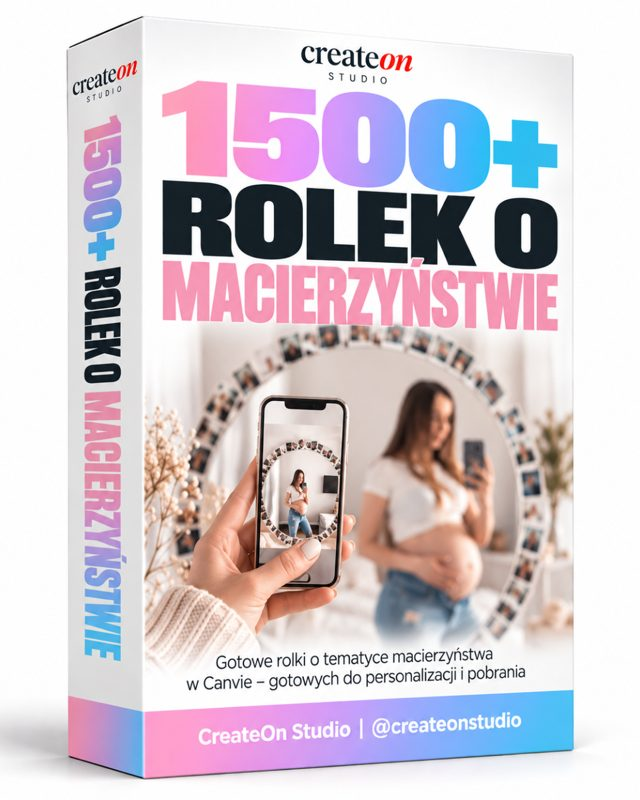
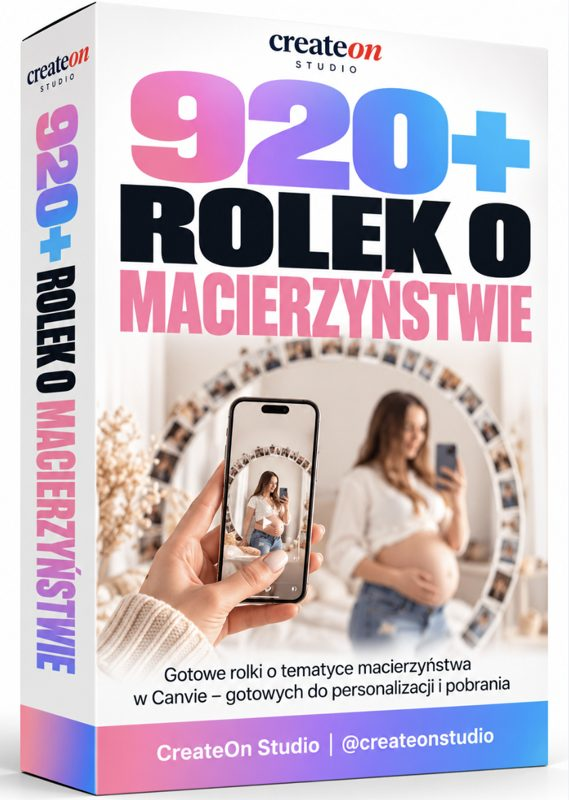
Add files via upload

diff --git a/index.html b/index.html
@@ -1,6 +1,10 @@
-<!doctype html><html><head><meta charset=utf8><meta name=viewport content="width=device-width,initial-scale=1,viewport-fit=cover"><style>:root{color-scheme:light;box-sizing:border-box;padding-top:env(safe-area-inset-top,0px);padding-bottom:env(safe-area-inset-bottom,0px)}html{scroll-padding-top:env(safe-area-inset-top,0px)}body{margin:0;padding:0;font:14px -apple-system,BlinkMacSystemFont,sans-serif;background:#fff;color:#000}img{max-width:100%}[hidden]:not([hidden=until-found i]){display:none!important}</style></head><body>
+<!doctype html>
+<html lang="pl">
+<head>
+<meta charset="utf-8">
+<meta name="viewport" content="width=device-width,initial-scale=1,viewport-fit=cover">
+<meta name="theme-color" content="#000002">
 <title>Katalog CreateOn Studio</title>
-<meta name="claude:viewport-fit-sides" content="cover">
 <link rel="preconnect" href="https://fonts.googleapis.com">
 <link rel="preconnect" href="https://fonts.gstatic.com" crossorigin>
 <link rel="stylesheet" href="https://fonts.googleapis.com/css2?family=Hanken+Grotesk:wght@300..700&family=Fraunces:ital,opsz,wght@1,9..144,400..600&display=swap">
@@ -24,6 +28,8 @@
   --script: "Fraunces", Georgia, serif;
 }
 * { box-sizing: border-box; }
+img { max-width: 100%; }
+body { margin: 0; }
 html { background: var(--night); }
 body {
   background: var(--night); color: var(--ink);
@@ -68,7 +74,7 @@ a:focus-visible { outline: 2px solid var(--amber); outline-offset: 3px; border-r
 /* Shelf */
 .shelf-card { padding: 24px; display: grid; gap: 16px; margin-top: 30vh; }
 .shelf-head { display: flex; justify-content: space-between; gap: 12px; }
-.shelf { list-style: none; margin: 0; padding: 0; display: grid; grid-template-columns: repeat(7, minmax(0, 1fr)); gap: 12px; }
+.shelf { list-style: none; margin: 0; padding: 0; display: grid; grid-template-columns: repeat(8, minmax(0, 1fr)); gap: 12px; }
 @media (max-width: 900px) { .shelf { grid-template-columns: repeat(4, minmax(0, 1fr)); } }
 @media (max-width: 520px) { .shelf { grid-template-columns: repeat(3, minmax(0, 1fr)); gap: 8px; } .shelf-card { padding: 16px; } }
 .shelf a { display: grid; gap: 8px; text-decoration: none; }
@@ -107,6 +113,9 @@ footer .label a { color: var(--amber); text-decoration: none; }
 @media (max-width: 600px) { .hint { display: none; } .wrap { padding-top: 96px; } .hero { margin-top: 6vh; } }
 @media (prefers-reduced-motion: reduce) { .shelf img { transition: none; } .shelf a:hover img { transform: none; } }
 </style>
+</head>
+<body>
+
 
 <canvas id="field" aria-hidden="true"></canvas>
 <div class="veil"></div>
@@ -116,7 +125,7 @@ footer .label a { color: var(--amber); text-decoration: none; }
   <div><b>CreateOn</b><span>Studio / Katalog</span></div>
 </a>
 <div class="mark hint">Przewiń, aby odkryć produkty</div>
-<div class="mark count" id="count">00 / 14</div>
+<div class="mark count" id="count">00 / 16</div>
 <div class="progress" aria-hidden="true"><i id="bar"></i></div>
 
 <div class="wrap" id="top">
@@ -128,22 +137,24 @@ footer .label a { color: var(--amber); text-decoration: none; }
   </header>
 
   <section class="shelf-card glass" aria-label="Wszystkie produkty">
-    <div class="shelf-head label"><span>Wszystkie produkty</span><span>14</span></div>
+    <div class="shelf-head label"><span>Wszystkie produkty</span><span>16</span></div>
     <ol class="shelf">
     <li><a href="#mockupy"><img src="c/mockupy.jpg" alt="" loading="lazy"><span>1000 szablonów Mockup</span></a></li>
     <li><a href="#hooki"><img src="c/hooki.jpg" alt="" loading="lazy"><span>450+ hooków</span></a></li>
     <li><a href="#naklejki"><img src="c/naklejki.jpg" alt="" loading="lazy"><span>500+ naklejek</span></a></li>
     <li><a href="#identyfikacja"><img src="c/identyfikacja.jpg" alt="" loading="lazy"><span>Brand board</span></a></li>
     <li><a href="#cta"><img src="c/cta.jpg" alt="" loading="lazy"><span>101 CTA</span></a></li>
-    <li><a href="#macierzynstwo"><img src="c/macierzynstwo.jpg" alt="" loading="lazy"><span>1500+ rolek o macierzyństwie</span></a></li>
+    <li><a href="#macierzynstwo"><img src="c/macierzynstwo.jpg" alt="" loading="lazy"><span>920+ rolek o macierzyństwie</span></a></li>
     <li><a href="#wellness"><img src="c/wellness.jpg" alt="" loading="lazy"><span>850+ rolek wellness</span></a></li>
     <li><a href="#pomysly"><img src="c/pomysly.jpg" alt="" loading="lazy"><span>500 pomysłów na produkt</span></a></li>
     <li><a href="#prompty"><img src="c/prompty.jpg" alt="" loading="lazy"><span>10 000+ promptów</span></a></li>
     <li><a href="#planer"><img src="c/planer.jpg" alt="" loading="lazy"><span>Content planer</span></a></li>
     <li><a href="#newslettery"><img src="c/newslettery.jpg" alt="" loading="lazy"><span>30 newsletterów</span></a></li>
     <li><a href="#shortcody"><img src="c/shortcody.jpg" alt="" loading="lazy"><span>350 shortcodów</span></a></li>
-    <li><a href="#rolki-claude"><img src="c/rolki-claude.jpg" alt="" loading="lazy"><span>Reelsy w Claude</span></a></li>
+    <li><a href="#rolki-claude"><img src="c/rolki-claude.jpg" alt="" loading="lazy"><span>Montuj rolki z Claude</span></a></li>
     <li><a href="#manychat"><img src="c/manychat.jpg" alt="" loading="lazy"><span>30 automatyzacji ManyChat</span></a></li>
+    <li><a href="#bez-twarzy"><img src="c/bez-twarzy.jpg" alt="" loading="lazy"><span>10 000+ rolek bez twarzy</span></a></li>
+    <li><a href="#podroze"><img src="c/podroze.jpg" alt="" loading="lazy"><span>900+ rolek podróżniczych</span></a></li>
   </ol>
   </section>
 
@@ -240,12 +251,12 @@ footer .label a { color: var(--amber); text-decoration: none; }
   </article>
 
 <article class="product" data-n="06" id="macierzynstwo">
-    <div class="cover"><img src="c/macierzynstwo.jpg" alt="Okładka: 1500+ rolek o macierzyństwie" loading="lazy"><div class="avail">Dostępne w <b>CreateOn Studio</b></div></div>
+    <div class="cover"><img src="c/macierzynstwo.jpg" alt="Okładka: 920+ rolek o macierzyństwie" loading="lazy"><div class="avail">Dostępne w <b>CreateOn Studio</b></div></div>
     <div class="copy">
       <div class="label">06 / ROLKI</div>
-      <h2>1500+ rolek o macierzyństwie</h2>
+      <h2>920+ rolek o macierzyństwie</h2>
       <p class="lead">Twórz atrakcyjne rolki o macierzyństwie bez konieczności projektowania każdego filmu od podstaw.</p>
-      <p>Dzięki gotowym szablonom szybko przygotujesz treści do mediów społecznościowych, podzielisz się doświadczeniami związanymi z rodzicielstwem, pokażesz codzienne życie rodzinne lub wypromujesz swoją markę. To praktyczne rozwiązanie dla zapracowanych mam, przedsiębiorców i influencerów, którzy chcą regularnie publikować estetyczne, dopracowane materiały.</p>
+      <p>Dzięki gotowym szablonom szybko przygotujesz treści do mediów społecznościowych, podzielisz się doświadczeniami związanymi z rodzicielstwem, pokażesz codzienne życie rodzinne lub wypromujesz swoją markę. Pakiet zawiera ponad 920 szablonów filmów o mamach i macierzyństwie. To praktyczne rozwiązanie dla zapracowanych mam, przedsiębiorców i influencerów, którzy chcą regularnie publikować estetyczne, dopracowane materiały.</p>
       <h3>Co otrzymujesz?</h3>
       <ul>
         <li>Ponad 90 filmów o macierzyństwie z gotowymi hookami, które możesz edytować w Canvie</li>
@@ -271,7 +282,6 @@ footer .label a { color: var(--amber); text-decoration: none; }
       <p>Ten zestaw łączy ponad 850 materiałów, które możesz wykorzystać w komunikacji swojej marki wellness. Znajdziesz tu zarówno krótkie, bezosobowe rolki, jak i filmy o zdrowiu oraz gotowe projekty na Instagram. Dzięki temu łatwiej dopasujesz publikacje do tematyki swojego profilu i osób, do których chcesz dotrzeć.</p>
       <h3>Zawartość zestawu</h3>
       <ul>
-        <li>150 bezosobowych rolek o duchowości z gotowymi napisami</li>
         <li>250 bezosobowych rolek na Instagram o duchowości i holistycznym stylu życia</li>
         <li>200 filmów o zdrowiu z gotowymi napisami</li>
         <li>Ponad 100 szablonów filmów z afirmacjami i ćwiczeniami uważności</li>
@@ -395,19 +405,18 @@ footer .label a { color: var(--amber); text-decoration: none; }
   </article>
 
 <article class="product" data-n="13" id="rolki-claude">
-    <div class="cover"><img src="c/rolki-claude.jpg" alt="Okładka: Edytowanie reelsów w Claude" loading="lazy"><div class="avail">Dostępne w <b>CreateOn Studio</b></div></div>
+    <div class="cover"><img src="c/rolki-claude.jpg" alt="Okładka: Montuj rolki z Claude" loading="lazy"><div class="avail">Dostępne w <b>CreateOn Studio</b></div></div>
     <div class="copy">
       <div class="label">13 / TUTORIAL</div>
       <span class="badge">Tutorial krok po kroku</span>
-      <h2>Edytowanie reelsów w Claude Code</h2>
+      <h2>Montuj rolki z Claude</h2>
       <p class="lead">Nie każda rolka musi oznaczać godziny w aplikacji do montażu.</p>
-      <p>W tym przewodniku krok po kroku nauczysz się montować rolki z Claude: przynosisz surowe nagranie, na którym mówisz do kamery, a Claude buduje cały montaż za Ciebie. Robi napisy słowo po słowie, wyróżnia hasła, dodaje naklejki i zdjęcia produktów oraz wyrównuje dźwięk. Podgląd oglądasz na żywo, a poprawki podajesz zwykłą wiadomością z numerem klatki.</p>
+      <p>W tym przewodniku krok po kroku nauczysz się montować rolki z Claude: przynosisz surowe nagranie, na którym mówisz do kamery, a Claude buduje cały montaż za Ciebie. Robi napisy, wyróżnia hasła, dodaje naklejki i zdjęcia produktów oraz wyrównuje dźwięk. Podgląd oglądasz na żywo, a poprawki podajesz zwykłą wiadomością z numerem klatki.</p>
       <h3>Czego się nauczysz?</h3>
       <ul>
         <li>Instalacji krok po kroku na macOS, Windows i Linuksie, z gotowymi poleceniami do skopiowania</li>
         <li>Automatycznej transkrypcji z czasem każdego słowa, także dla nagrań po polsku</li>
-        <li>Dopasowania stylu montażu do rolki wzorcowej, która Ci się podoba</li>
-        <li>Dodawania logo, okładek produktów i logotypów partnerów z wyciętym tłem</li>
+        <li>Dopasowania stylu montażu do rolki wzorcowej, dodawania logo, okładek produktów i logotypów partnerów z wyciętym tłem</li>
         <li>Szybkich poprawek: jedna uwaga z numerem klatki i gotowe</li>
         <li>Wyrównania głośności ujęć i ustawienia dźwięku pod Instagram (−14 LUFS)</li>
         <li>Eksportu gotowego filmu MP4 w formacie 1080×1920</li>
@@ -436,6 +445,46 @@ footer .label a { color: var(--amber); text-decoration: none; }
       </ul>
       <h3>Dla kogo?</h3>
       <p>Zestaw sprawdzi się u specjalistów ds. marketingu cyfrowego, przedsiębiorców, właścicieli firm internetowych i menedżerów mediów społecznościowych. To praktyczna baza gotowych rozwiązań, które możesz dostosować do swojej marki i celów, zamiast tworzyć każdą automatyzację od podstaw.</p>
+    </div>
+  </article>
+
+<article class="product" data-n="15" id="bez-twarzy">
+    <div class="cover"><img src="c/bez-twarzy.jpg" alt="Okładka: 10 000+ estetycznych rolek bez twarzy" loading="lazy"><div class="avail">Dostępne w <b>CreateOn Studio</b></div></div>
+    <div class="copy">
+      <div class="label">15 / BEZ TWARZY</div>
+      <h2>10 000+ rolek bez pokazywania twarzy</h2>
+      <p class="lead">Estetyczne treści na Instagram, TikToka i YouTube Shorts, bez pokazywania twarzy.</p>
+      <p>Pakiet zawiera ponad 10 000 gotowych materiałów wizualnych. Znajdziesz tu rolki, filmy, zdjęcia i edytowalne szablony Canva w różnych stylach, które pomogą Ci przygotowywać atrakcyjne publikacje, zachować spójny wizerunek marki i usprawnić tworzenie treści.</p>
+      <h3>Co zawiera pakiet?</h3>
+      <ul>
+        <li><b>Gotowe rolki i materiały wideo:</b> ponad 10 000 estetycznych materiałów do wykorzystania w mediach społecznościowych, bez konieczności samodzielnego nagrywania.</li>
+        <li><b>Różnorodne style wizualne:</b> materiały w estetyce luxury, aesthetic i innych stylach, które możesz dopasować do charakteru swojej marki.</li>
+        <li><b>Szablony Canva:</b> edytowalne projekty, które pozwalają dostosować treści do własnych potrzeb i identyfikacji wizualnej.</li>
+        <li><b>Materiały do różnych formatów:</b> treści do rolek, krótkich filmów, zdjęć i relacji na Instagramie.</li>
+        <li><b>Natychmiastowy dostęp</b> do plików.</li>
+      </ul>
+      <h3>Dla kogo?</h3>
+      <p>Pakiet sprawdzi się u twórców internetowych, influencerów, trenerów, przedsiębiorców i menedżerów mediów społecznościowych, którzy chcą tworzyć estetyczne treści bez pokazywania twarzy. To również propozycja dla osób sprzedających produkty cyfrowe i rozwijających własną markę w internecie.</p>
+    </div>
+  </article>
+
+<article class="product" data-n="16" id="podroze">
+    <div class="cover"><img src="c/podroze.jpg" alt="Okładka: 900+ estetycznych rolek podróżniczych" loading="lazy"><div class="avail">Dostępne w <b>CreateOn Studio</b></div></div>
+    <div class="copy">
+      <div class="label">16 / PODRÓŻE</div>
+      <h2>900+ estetycznych rolek podróżniczych</h2>
+      <p class="lead">Marzysz o profilu pełnym pięknych widoków, luksusowych wnętrz i inspirujących miejsc?</p>
+      <p>Ten pakiet zawiera ponad 900 materiałów wideo przedstawiających wyjątkowe destynacje, eleganckie hotele, prywatne wille, malownicze plaże i klimatyczne zakątki świata. Wykorzystaj je, aby tworzyć estetyczne rolki, inspirować odbiorców i nadać swojemu profilowi wyjątkowy charakter.</p>
+      <h3>Co tu znajdziesz?</h3>
+      <ul>
+        <li>Ponad 900 gotowych rolek i ujęć podróżniczych</li>
+        <li>Piękne hotele, luksusowe wille i wyjątkowe miejsca na całym świecie</li>
+        <li>Malownicze krajobrazy, zachwycające widoki i inspirujące kadry</li>
+        <li>Materiały idealne do tworzenia rolek na Instagram, TikToka i YouTube Shorts</li>
+        <li>Gotowe wideo, dzięki którym nie musisz samodzielnie nagrywać ani podróżować, aby tworzyć atrakcyjne treści</li>
+      </ul>
+      <h3>Dla kogo?</h3>
+      <p>Dla twórców, którzy kochają estetyczne profile, tematykę podróży i luksusowy styl życia. Pakiet sprawdzi się zarówno u osób budujących markę osobistą, jak i u twórców profili bez pokazywania twarzy, którzy chcą regularnie publikować piękne i angażujące treści.</p>
     </div>
   </article>
 
@@ -527,13 +576,14 @@ footer .label a { color: var(--amber); text-decoration: none; }
   var products = Array.prototype.slice.call(document.querySelectorAll('.product'));
   if ('IntersectionObserver' in window) {
     var io = new IntersectionObserver(function (entries) {
-      entries.forEach(function (e) { if (e.isIntersecting) count.textContent = e.target.dataset.n + ' / 14'; });
+      entries.forEach(function (e) { if (e.isIntersecting) count.textContent = e.target.dataset.n + ' / 16'; });
     }, { rootMargin: '-45% 0px -45% 0px' });
     products.forEach(function (p) { io.observe(p); });
     var shelf = document.querySelector('.shelf-card');
-    new IntersectionObserver(function (es) { es.forEach(function (e) { if (e.isIntersecting) count.textContent = '00 / 14'; }); }, { rootMargin: '-45% 0px -45% 0px' }).observe(shelf);
+    new IntersectionObserver(function (es) { es.forEach(function (e) { if (e.isIntersecting) count.textContent = '00 / 16'; }); }, { rootMargin: '-45% 0px -45% 0px' }).observe(shelf);
   }
 })();
 </script>
 
-</body></html>
+</body>
+</html>
